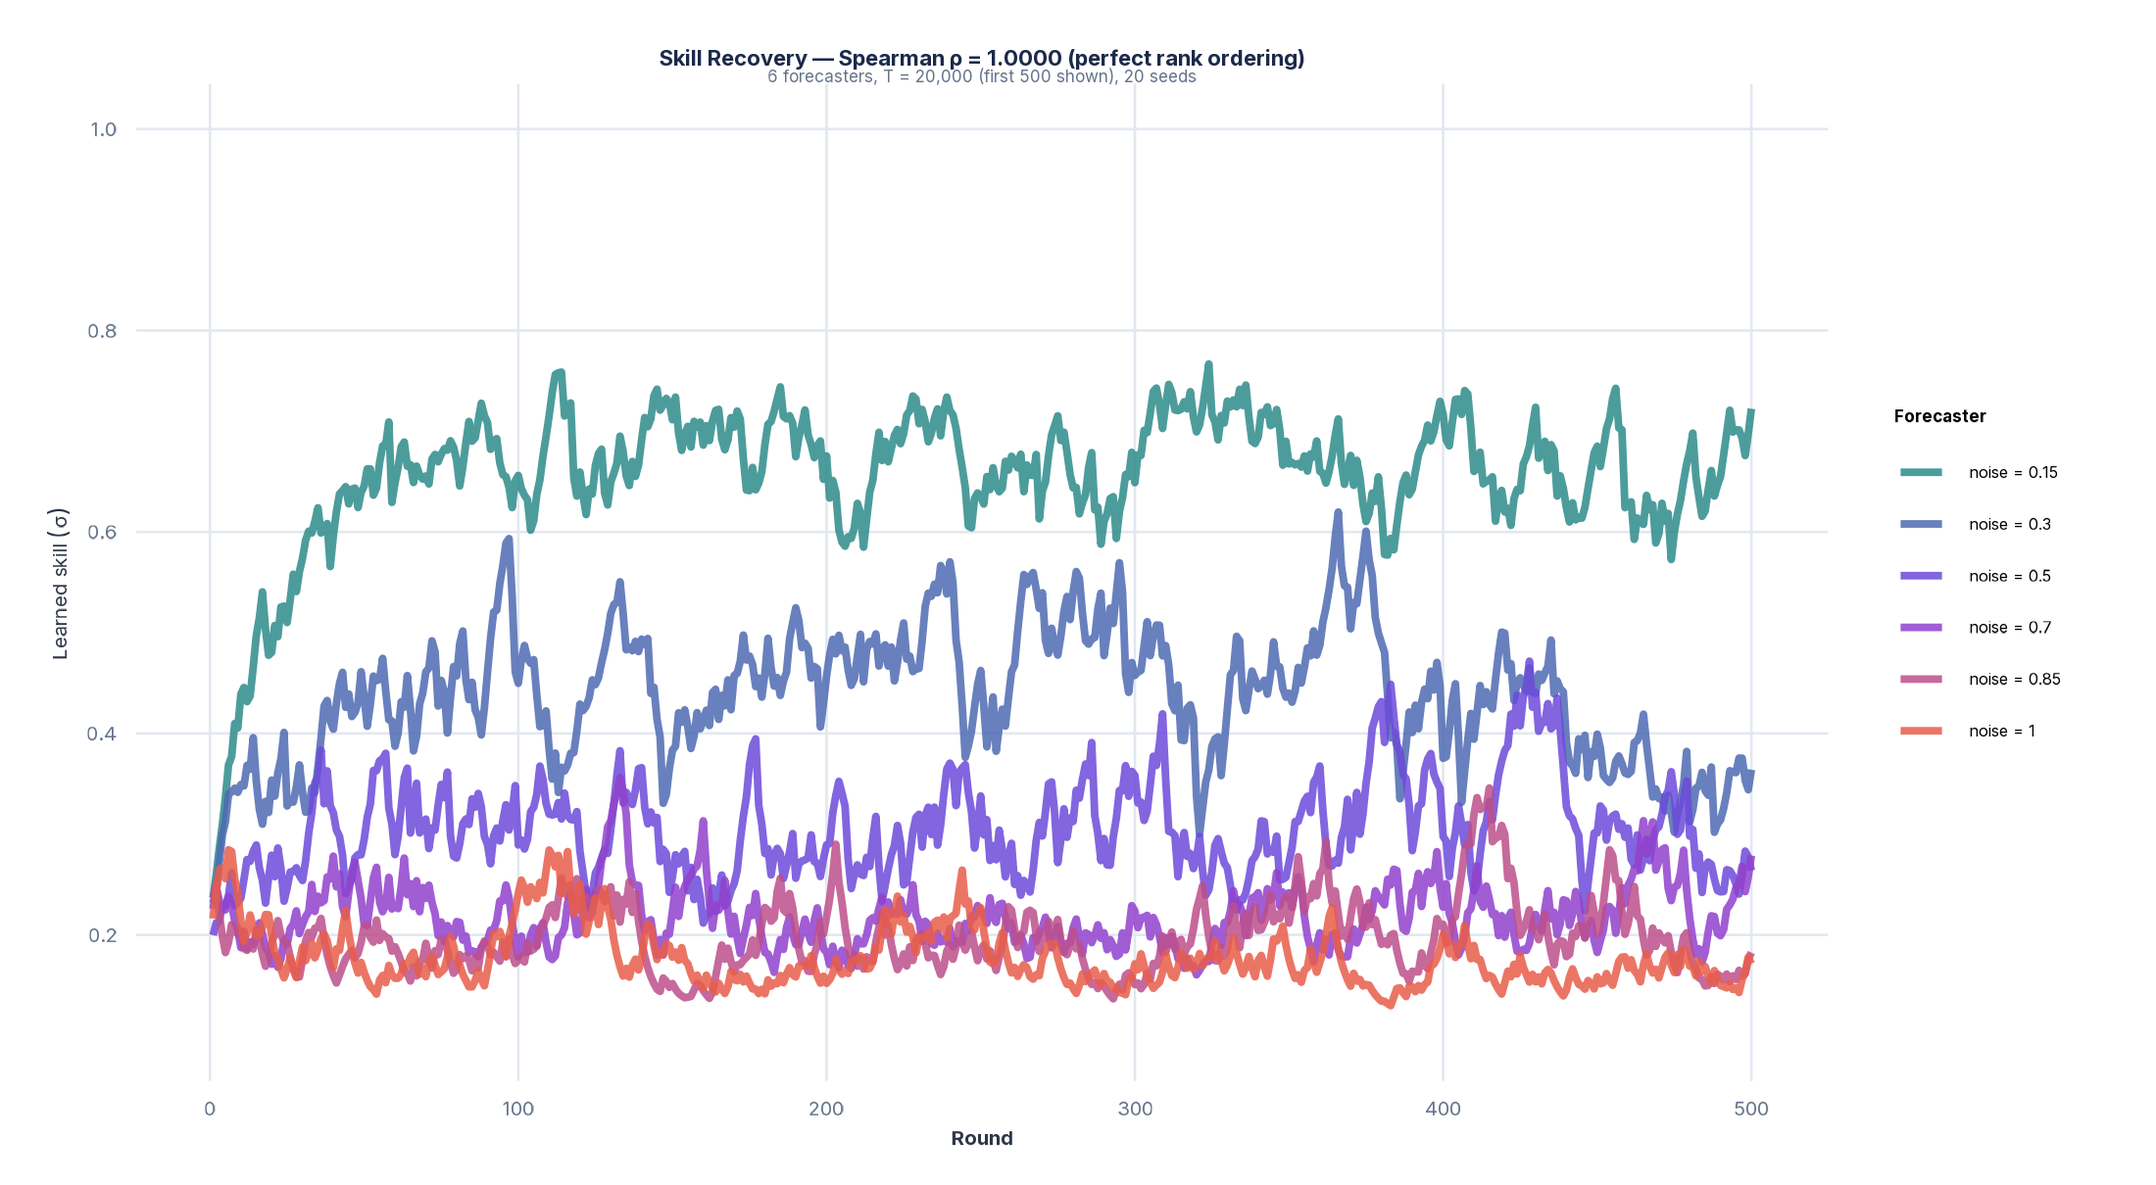
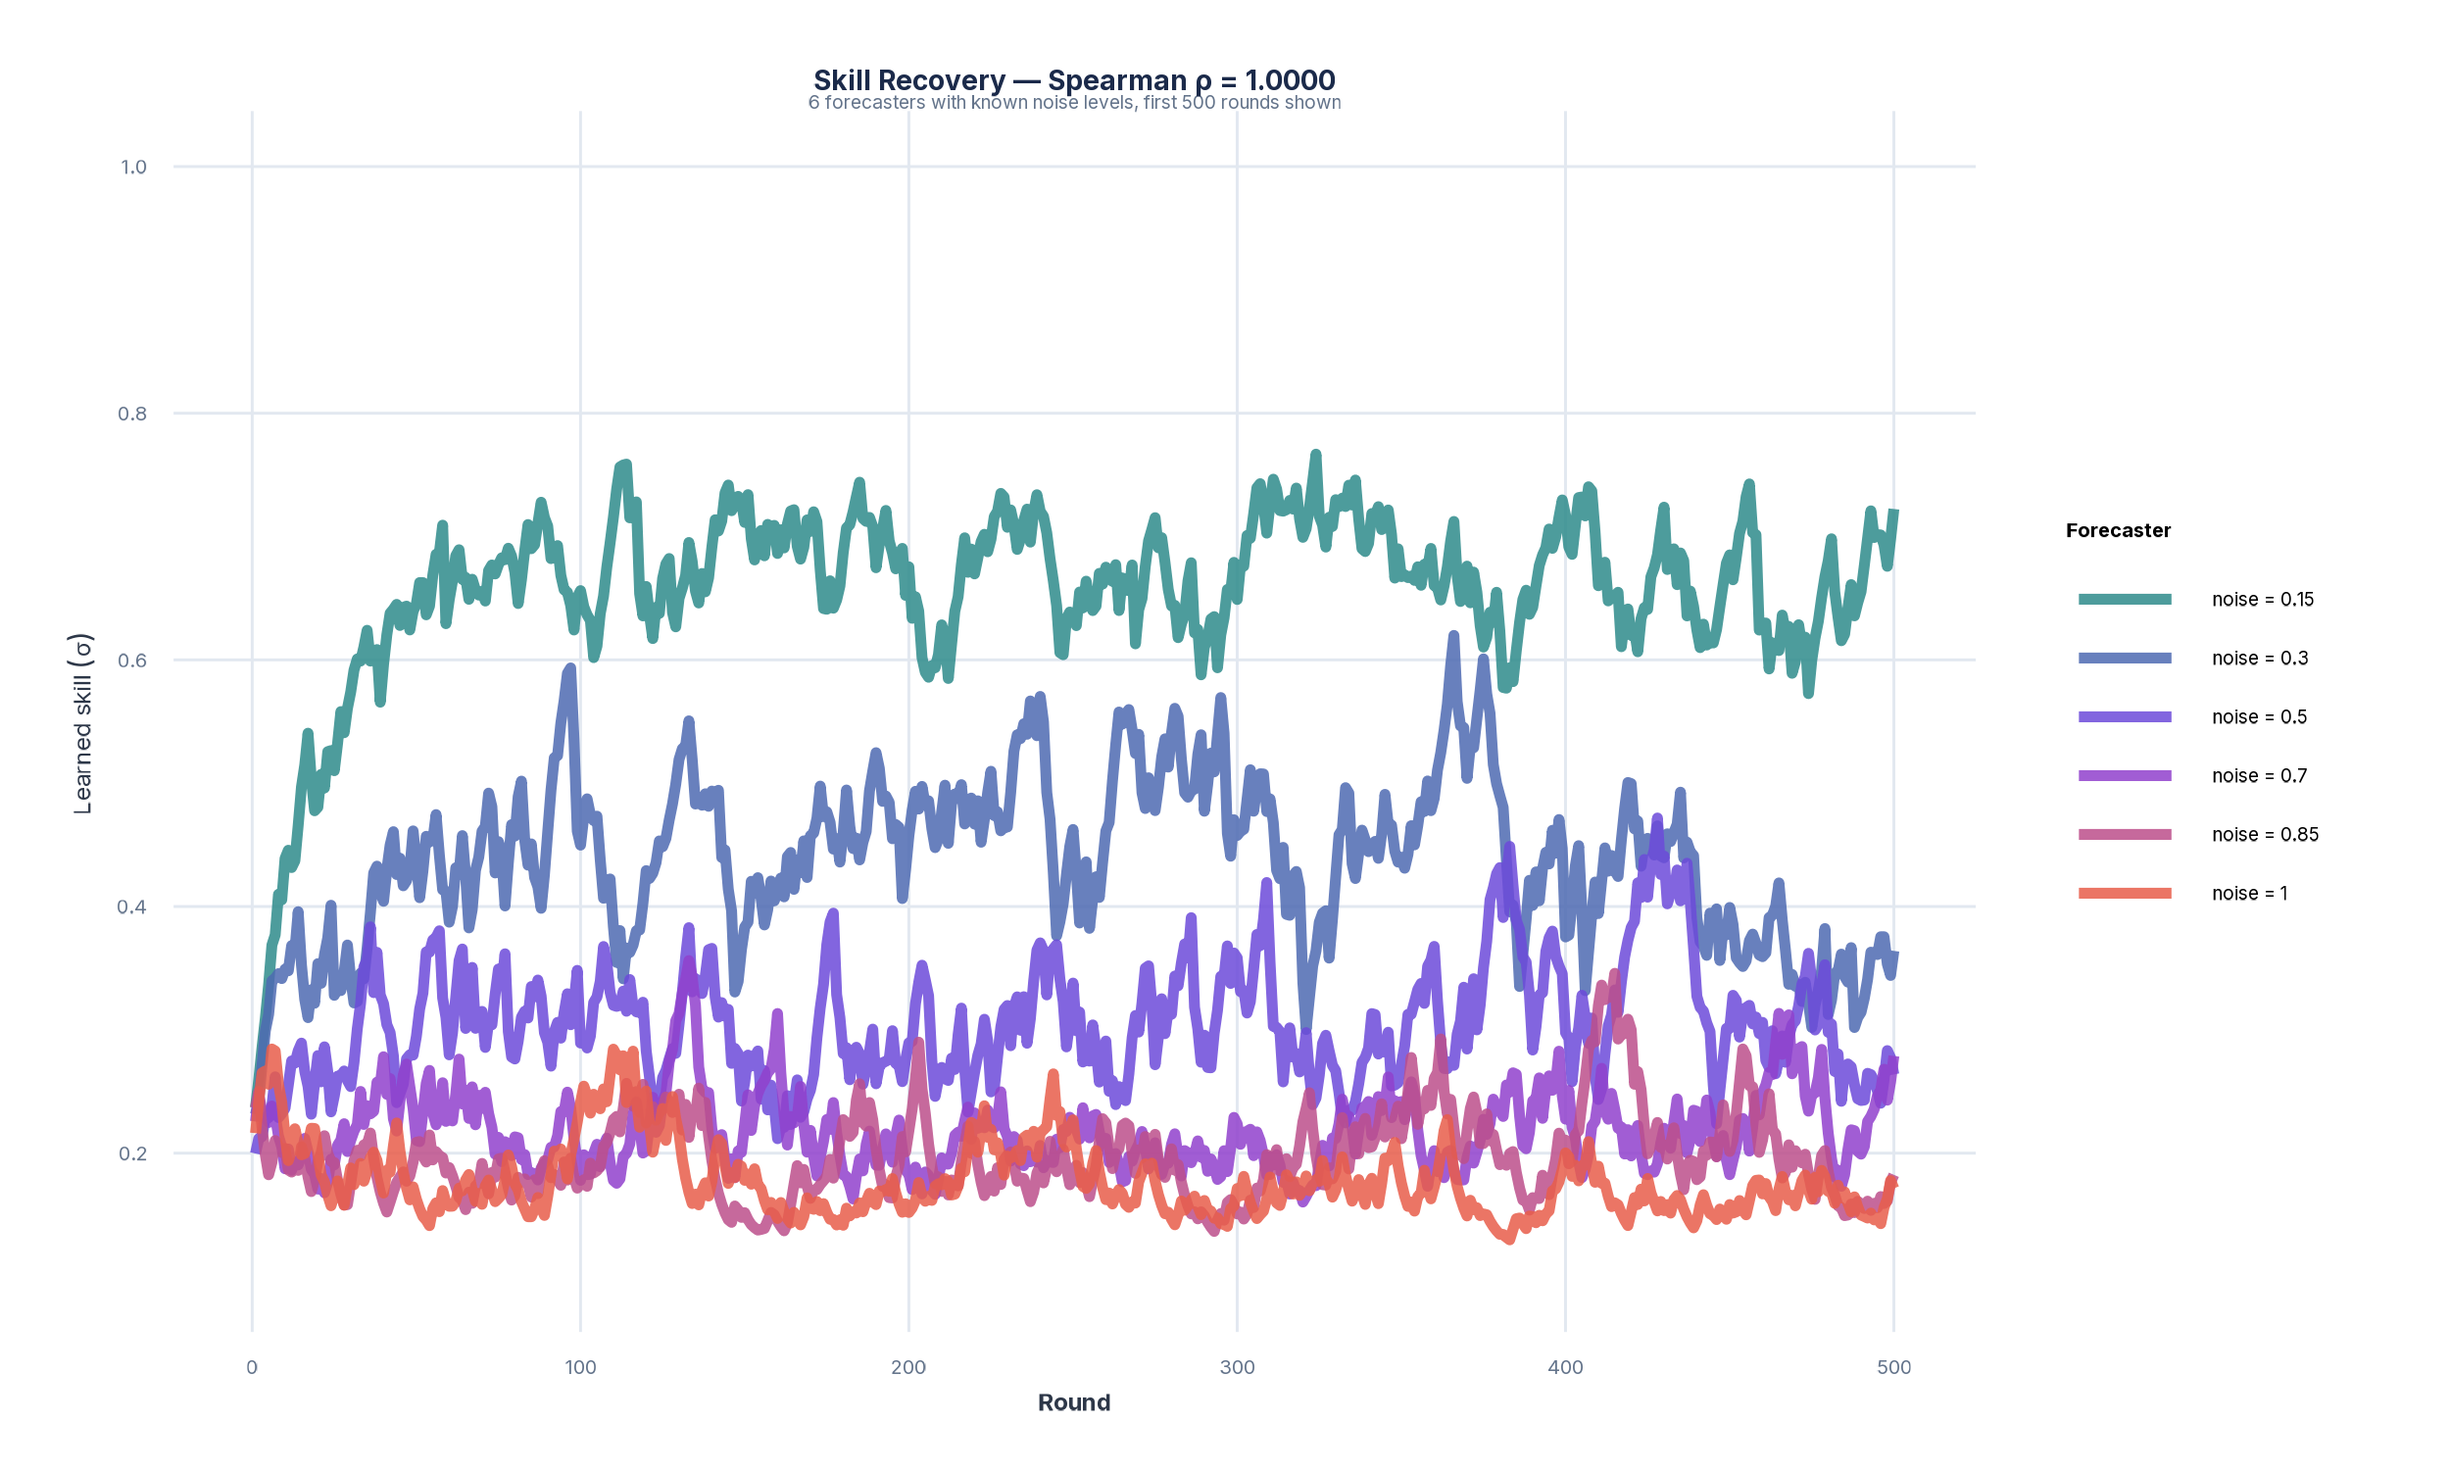
feat(plots): per-forecaster skill graph, bigger text on all plots
Main result graph (Slide 9) now shows learned skill (σ) for each of
the 7 real forecasters over 17,544 rounds on Elia wind data. The
mechanism clearly identifies Naive as strongest and ARIMA as weakest.
This directly shows HOW the mechanism differentiates forecasters.

All plots regenerated with:
- base_size 18 (up from 14-15) for projection readability
- 250 DPI (up from 220)
- Larger point sizes, thicker lines, label boxes with backgrounds
- Skill signal dots use geom_label with white background for clarity

Bottom summary updated: 'Mechanism learns who is skilled' instead of
the old ΔCRPS percentage.

diff --git a/dashboard/src/components/slides/ContributionsChartSlide.tsx b/dashboard/src/components/slides/ContributionsChartSlide.tsx
@@ -4,9 +4,9 @@ import { PALETTE, TYPOGRAPHY } from './shared/presentationConstants';
 const BASE = import.meta.env.BASE_URL;
 
 /**
- * Slide 11: Real Data Validation — ggplot2-generated horizontal bar chart.
- * Shows ΔCRPS % for each method vs equal weights on Elia wind data.
- * Generated by scripts/plot_real_data_validation.R
+ * Slide 9: Main Empirical Result — per-forecaster learned skill over time.
+ * Shows how the mechanism differentiates the 7 real forecasters on Elia wind data.
+ * Generated by scripts/plot_all_slides.R
  */
 export default function ContributionsChartSlide() {
   return (
@@ -15,7 +15,7 @@ export default function ContributionsChartSlide() {
       <div style={{ flex: 1, minHeight: 0, display: 'flex', alignItems: 'center', justifyContent: 'center' }}>
         <img
           src={`${BASE}presentation-plots/real_data_validation.png`}
-          alt="Cumulative mean CRPS over time — mechanism pulls ahead of equal weights as skill is learned"
+          alt="Learned skill per forecaster over 17,544 rounds — Naive highest, ARIMA lowest"
           style={{ maxWidth: '100%', maxHeight: '100%', objectFit: 'contain', borderRadius: 8 }}
         />
       </div>
@@ -24,12 +24,12 @@ export default function ContributionsChartSlide() {
       <div style={{ display: 'flex', gap: 16, marginTop: 8 }}>
         <div style={{ flex: 1, background: 'rgba(46, 139, 139, 0.06)', border: `1.5px solid ${PALETTE.teal}`, borderRadius: 10, padding: '10px 16px', textAlign: 'center' }}>
           <span style={{ fontSize: '1.05rem', fontWeight: 700, color: PALETTE.teal, fontFamily: TYPOGRAPHY.fontFamily }}>
-            Wind: −34% CRPS vs equal
+            Mechanism learns who is skilled — improves aggregate by ~1/3
           </span>
         </div>
         <div style={{ flex: 1, background: 'rgba(232, 93, 74, 0.06)', border: `1.5px solid ${PALETTE.coral}`, borderRadius: 10, padding: '10px 16px', textAlign: 'center' }}>
           <span style={{ fontSize: '1.05rem', fontWeight: 700, color: PALETTE.coral, fontFamily: TYPOGRAPHY.fontFamily }}>
-            Electricity: −4% (less heterogeneity)
+            Electricity: ~4% gain (forecasters more similar)
           </span>
         </div>
       </div>
